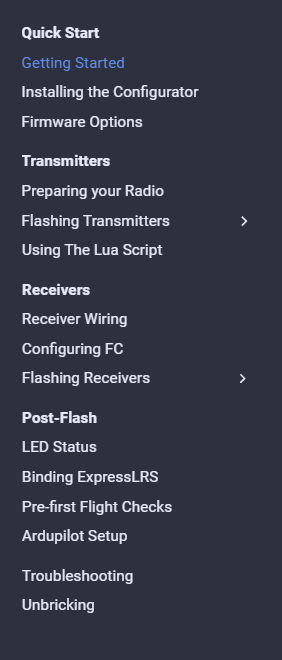
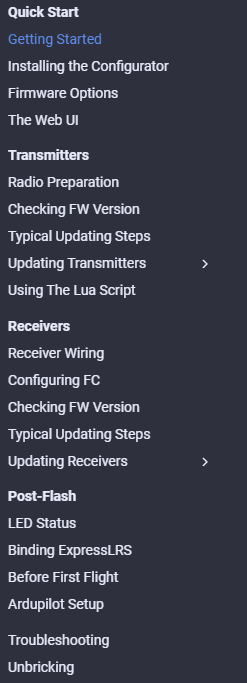
Almost Ready. Just some checks and tweaks.

diff --git a/docs/quick-start/binding.md b/docs/quick-start/binding.md
@@ -5,28 +5,120 @@ description: Binding ExpressLRS is easy! With the Binding Phrase, no button pres
 
 ![Setup-Banner](https://raw.githubusercontent.com/ExpressLRS/ExpressLRS-Hardware/master/img/quick-start.png)
 
-Binding can be done with either a hard coded unique binding phrase or in a more traditional way where you put the receiver and transmitter into bind mode, and they link up. There is no reason to use traditional binding if you're flashing both your TX and RX firmware anyway. If you used a bind phrase in your user defines, there is no need to read this article. Proceed to the [next section](../../quick-start/pre-1stflight/). If not, here is how to bind an ELRS TX and RX.
+Binding can be done with either a hard coded unique Binding Phrase or in a more traditional way where you put the receiver and transmitter into bind mode, and they link up.
+
+If you'll be updating or reflashing your ExpressLRS firmware into your device anyway, using a Binding Phrase is a no-brainer. 
+
+With the release of ExpressLRS v3.0, updating your Binding Phrase via the WebUI is an even more compelling reason to use a Binding Phrase.
+
+Below are the different Binding Procedures for ExpressLRS.
 
 ## Unique Phrase
 
-You need to have a **unique** binding phrase in the [`user_defines.txt`](../../software/user-defines/#binding-phrase) file or entered in the "Custom Binding Phrase" box in the Configurator.  After flashing your TX and RX, they will bind automatically. [Is my binding phrase a secret?](../../faq/#is-my-binding-phrase-a-secret)
+You can elect a short and simple Binding Phrase for your devices prior to flashing or updating using the field in the [ExpressLRS Configurator](installing-configurator.md).
 
-```
--DMY_BINDING_PHRASE="default ExpressLRS binding phrase"
-```
+<figure markdown>
+![Binding Phrase Field](../assets/images/bindingphrase-textfield.png)
+<figcaption>Binding Phrase Field</figcaption>
+</figure>
+
+Alternatively, you can also change the Binding Phrase via the WebUI if your device has WiFi-capabilities and already updated to ExpressLRS 3.0 or newer. See this [page](webui.md) for the WebUI User's Guide.
+
+<figure markdown>
+![Binding Phrase Field WebUI](../assets/images/bindingphrase-webui.png)
+<figcaption>Binding Phrase Field in the WebUI</figcaption>
+</figure>
+
+We recommend using a **unique** phrase with at least 8 alpha-numeric characters. Best candidate is your Pilot Handle. This phrase need not to be complicated or super-secret as it isn't a password or encryption key. 
+
+??? info "Is my binding phrase a secret?"
+    No, just like what channel your VTX is on is not a secret. The binding phrase is not security, it is anti-collision. If everyone kept their VTX channel a secret, the chances of you blasting someone out of the sky accidentally is pretty high. To provide the best chance of not interfering with other pilots and them not interfering with you, be sure you're not using the same dumb bind phrase as someone else. Express your style with a hilarious or saucy bind phrase.
 
 ## Traditional Binding
 
-For traditional binding, the binding phrase must be commented out in user_defines on the RX.
+For traditional binding to work, a Binding Phrase must not be set, at least for the Receiver.
+
+!!! warning "Notice"
+    A Receiver flashed or set with a Binding Phrase WILL NOT initiate Manual Binding mode, however many times you try the procedure below. You must first reflash the receiver with the Binding Phrase field disabled and/or unset. Why would you not use a bind phrase though if you're already having to flash the RX anyway? :grin:
 
 1. Power off your transmitter/radio.
-2. Powercycle the receiver 3 times (unplug-replug LiPo).
+2. Power-cycle the receiver 3 times. 
+    - Supply power to receiver.
+    - Receiver LED lights up.
+    - Turn it Off.
+    - Repeat 2 more times.
+
+    !!! warning "Caution"
+        This step is best done using a LiPo flight pack, so make sure you've wired your flight controller properly and checked for any shorts. You don't want to let out the blue smoke!
+
 3. Make sure the LED is doing a quick double blink, which indicates the receiver is in bind mode.
-4. Power up your transmitter/radio and use the [BIND] button on the ExpressLRS Lua script, which sends out a binding pulse.
+
+    <figure markdown>
+    ![LEDSEQ_BINDING](https://cdn.discordapp.com/attachments/738450139693449258/921065812763218010/LEDSEQ_BINDING_10_10_10_100.gif)
+    </figure>
+
+4. Power up your transmitter/radio and use the ++"[BIND]"++ button on the ExpressLRS Lua script, which sends out a binding pulse. The Popup will briefly show up then disappear.
+
+    <figure markdown>
+    ![Bind Mode](../assets/images/lua/bind-bw.png)
+    </figure>
+
 5. If the receiver LED turned into a solid light, it's bound!
 
-Important: If the RX firmware has a bind phrase, the RX will never enter binding mode using the above procedure. It must be flashed without a binding phrase to do traditional binding. Why would you not use a bind phrase though if you're already having to flash the RX anyway? :grin:
+    <figure markdown>
+    ![CONNECTED](https://cdn.discordapp.com/attachments/738450139693449258/921065812507373568/LED_ON.gif)
+    </figure>
+
+??? danger "Receiver LED doesn't Blink"
+    Consult the [Receiver Wiring](receivers/wiring-up.md) guide, particularly the expandable section near the bottom titled "My Receiver is in Bootloader Mode".
 
 ## Connection Check
 
-Go to the `Telemetry Page` of your model setup and try to find new sensors. If the telemetry data shows up then you are connected!
+Using the [ExpressLRS Lua Script](transmitters/lua-howto.md), look for a `C` in the top-right corner of the screen which indicates TX module and Receiver are Connected and Communicating.
+
+1. Press the ++"SYS"++ Key on your Radio.
+    - Older Radios or those with only one Menu Key will need to long-press the ++context-menu++ Key to access the System Menu.
+    - Consult your Radio User's Manual on how to access the System Menu.
+
+2. You are now in the Tools Menu where Lua Scripts can be found. Scroll down and select `ExpressLRS` Lua Script.
+
+    <figure markdown>
+    ![Lua Script]
+    </figure>
+
+    - If the script is nowhere to be found, download it from [this page](transmitters/lua-howto.md) and save it into your Radio SD Card Scripts/Tools/ folder.
+
+3. Press ++enter++ to Load it.
+            
+    <figure markdown >
+    ![Lua Running]
+    </figure> 
+
+    - If the script is stuck on a "Loading..." screen, go back to the [Radio Preparation](transmitters/tx-prep.md) Page and make sure you have configured your radio properly for ExpressLRS use.
+
+4. A `C` in the top-right corner should be visible indicating TX module and Receiver are connected and Communicating.
+
+    <figure markdown>
+    ![Lua Loaded](../../assets/images/tx-internalLuaCheck.jpg)
+    </figure>
+
+??? tip "Model Mismatch"
+    If the ExpressLRS Lua Script is showing a `C` in the top-right corner alright, but then that line disappears and replaced with a line saying "Model Mismatch", do not worry. ExpressLRS has detected that the set Model ID in the Receiver is different from the Receiver ID set into the current Model in your Radio Model Configuration.
+
+    This is also indicated by the Receiver LED as shown:
+    
+    <figure markdown>
+    ![LEDSEQ_MODEL_MISMATCH](https://cdn.discordapp.com/attachments/738450139693449258/921065813425934446/LEDSEQ_MODEL_MISMATCH_10_10_10_10_10_100.gif)
+    </figure>
+
+
+    If you've deliberately set up Model Matching following [this page](../software/model-config-match.md), make sure your settings are correct.
+    
+    If the Model Match item in the ExpressLRS Configurator is set to On, and you do want to use the Model Matching Feature, briefly set it to Off, then set it back to On to assign the current Receiver and Model ID into the Receiver.
+
+    Otherwise, simply set Model Match item to Off.
+
+    This should be done WHILE the TX module and Receiver are both powered up and connected/bound.
+
+[Lua Script]: ../assets/images/lua1.jpg
+[Lua Running]: ../assets/images/lua/config-bw.png

diff --git a/docs/quick-start/unbricking.md b/docs/quick-start/unbricking.md
@@ -34,3 +34,47 @@ If you’ve still got the boot pad bridged with solder, you’ll need to remove 
 ## Wall of Text? Here's a vid!
 
 <iframe width="640" height="390" src="https://www.youtube.com/embed/jYLwaWBkM_A" title="YouTube video player" frameborder="0" allow="accelerometer; autoplay; clipboard-write; encrypted-media; gyroscope; picture-in-picture" allowfullscreen></iframe>
+
+## A step-by-step guide
+
+1. Make sure your Receiver only powers up with a LiPo Connected.
+    - If your receiver powers up with just USB connected, move the 5v wire of the receiver into a 5v pad that only powers up with LiPo connected.
+        - Take a multi-meter in DC Voltmeter mode.
+        - Plug in USB into your Flight Controller. Disconnect LiPo.
+        - Probe/check each of the 5v pads in the Flight Controller.
+        - The 5v pads that read 0v on the multi-meter are pads that will only power up when a LiPo is connected.
+        - Solder your Receiver 5v into this pad.
+    - If in the above steps, you're not able to find a 5v pad suitable for this procedure, follow the following:
+        - Disconnect the 5v wire of the Receiver from the 5v pad on the Flight Controller.
+        - Solder a different length of wire into any of the 5v pad on the Flight Controller.
+        - Expose a suitable length of conductor of this wire that you can connect with the Receiver's 5v wire LATER.
+
+2. If you've connected a LiPo from the previous step, disconnect it. Also unplug the Flight Controller from your computer.
+
+3. Bridge the Boot Pads on the Receiver to put it in Bootloader mode manually.
+    - If your Receiver has a button, take an alligator clip to keep the button pressed.
+    - If your Receiver only has one Boot pad, connect it to a Ground pad.
+
+4. Connect to Betaflight or INAV Configurator and make sure you've properly [configured your FC](receivers/configuring-fc.md) for ExpressLRS use. Set `Telemetry` to **disabled** for now.
+
+5. Save & Reboot. Close Betaflight Configurator. Also close any other App that's potentially using COM Ports.
+    !!! info Cura Slicer
+        We found Cura Slicer and possibly others like it would keep a COM port open or busy preventing successful flashing/recovery via Passthrough.
+
+6. Unplug-replug the USB cable.
+
+7. On the ExpressLRS Configurator, select the Firmware Version you're trying to recover to. Select your Device Category and Device Target as well, along with your usual Firmware Options.
+
+8. Set the Flashing Method to `Betaflight Passthrough`.
+
+9. Click the `Build and Flash` button. Wait for the Line **PASSTHROUGH DONE** to appear in the Build Log.
+
+10. Plug in LiPo or twist the 5v Wires together to power up the receiver (see Step 1).
+
+11. Wait for the process to finish, hopefully with the Success Message. Otherwise repeat the procedure above or try a different approach (like reflashing via FTDI/UART Adapter).
+
+12. You can now power down the flight controller, disconnect LiPo and/or USB.
+
+13. Remove the boot pads bridging or connection to ground, or, if your Receiver has a button, then alligator clip pressing the button.
+
+14. Repower up the receiver to verify it is back into normal working state.

diff --git a/docs/quick-start/getting-started.md b/docs/quick-start/getting-started.md
@@ -20,20 +20,21 @@ So you got your ExpressLRS Hardware, be it a new Radio Handset with Internal Exp
 Here's our recommendation:
 
 === "Transmitter Side"
-    1. [Setup your Radio](../quick-start/transmitters/tx-prep.md)
-    2. [Check the TX Firmware Version](../quick-start/transmitters/firmware-version.md)
-    3. [Update the TX Module](../quick-start/transmitters/updating.md)
+    1. [Setup your Radio](transmitters/tx-prep.md)
+    2. [Check the TX Firmware Version](transmitters/firmware-version.md)
+    3. [Update the TX Module](transmitters/updating.md)
 
 === "Receiver Side"
-    1. [Connect your Receiver](../quick-start/receivers/wiring-up.md)
-    2. [Configure your Flight Controller](../quick-start/receivers/configuring-fc.md)
-    3. [Check the Receiver Firmware Version](../quick-start/receivers/firmware-version.md)
-    4. [Update the Receiver Firmware](../quick-start/receivers/updating.md)
+    1. [Wire your Receiver](receivers/wiring-up.md)
+    2. [Configure your Flight Controller](receivers/configuring-fc.md)
+    3. [Check the Receiver Firmware Version](receivers/firmware-version.md)
+    4. [Update the Receiver Firmware](receivers/updating.md)
 
 After both of these, you can then proceed with the following:
 
-- [Bind](../quick-start/binding.md)
-- Do the [Bench Test](../quick-start/pre-1stflight.md#bench-test)
+- [Bind](binding.md)
+- Do the [Bench Test](pre-1stflight.md#bench-test)
+- Other [Radio and Flight Controller Configuration](pre-1stflight.md)
 - Fly!
 
 ### How to Use or Navigate through the Guide

diff --git a/docs/quick-start/transmitters/firmware-version.md b/docs/quick-start/transmitters/firmware-version.md
@@ -158,9 +158,13 @@ For the latest ExpressLRS firmware version, check the [Releases page in Git Hub]
 
 === "I have an old version"
 
-    See the [next page](../transmitters/updating.md) for the typical updating procedure or use the links below to find the updating instructions specific to your TX Module.
+    See the [next page](../transmitters/updating.md) for the typical updating procedure or expand the `Updating Transmitters` section of the Menu on the left like shown below.
 
-    -links-
+    <figure markdown>
+    ![Menu Updating Transmitters](../../assets/images/menusectionUpdatingTransmitters.png)
+    </figure>
+
+    You can also use the Search Bar on top of this page to search for the specific Updating/Flashing Guide for your TX Module.
 
 === "I have a recent one"
 

diff --git a/docs/quick-start/receivers/firmware-version.md b/docs/quick-start/receivers/firmware-version.md
@@ -166,9 +166,13 @@ For the latest ExpressLRS firmware version, check the [Releases page in Git Hub]
 
 === "I have an old version"
 
-    See the [next page](../receivers/updating.md) for the typical updating procedure or use the links below to find the updating instructions specific to your Receiver.
+    See the [next page](../receivers/updating.md) for the typical updating procedure or expand the `Updating Receivers` section of the Menu on the left like shown below.
 
-    -links-
+    <figure markdown>
+    ![Menu Updating Receivers](../../assets/images/menusectionUpdatingReceivers.png)
+    </figure>
+
+    You can also use the Search Bar on top of this page to search for the specific Updating/Flashing Guide for your Receiver.
 
 === "I have a recent one"
 
